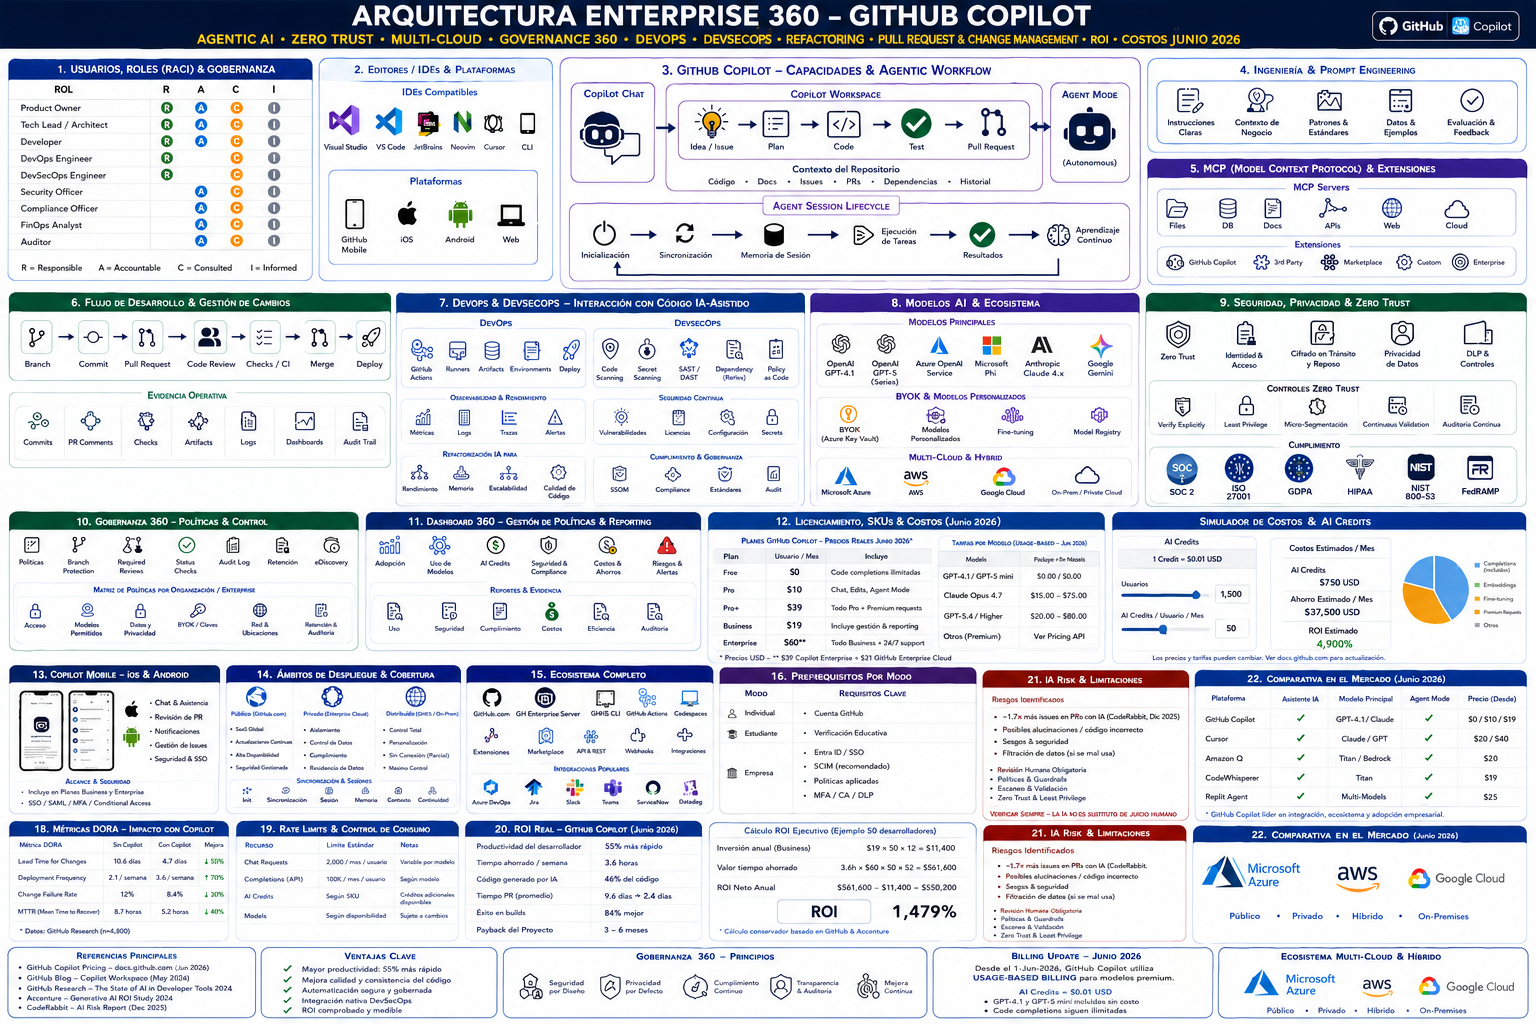
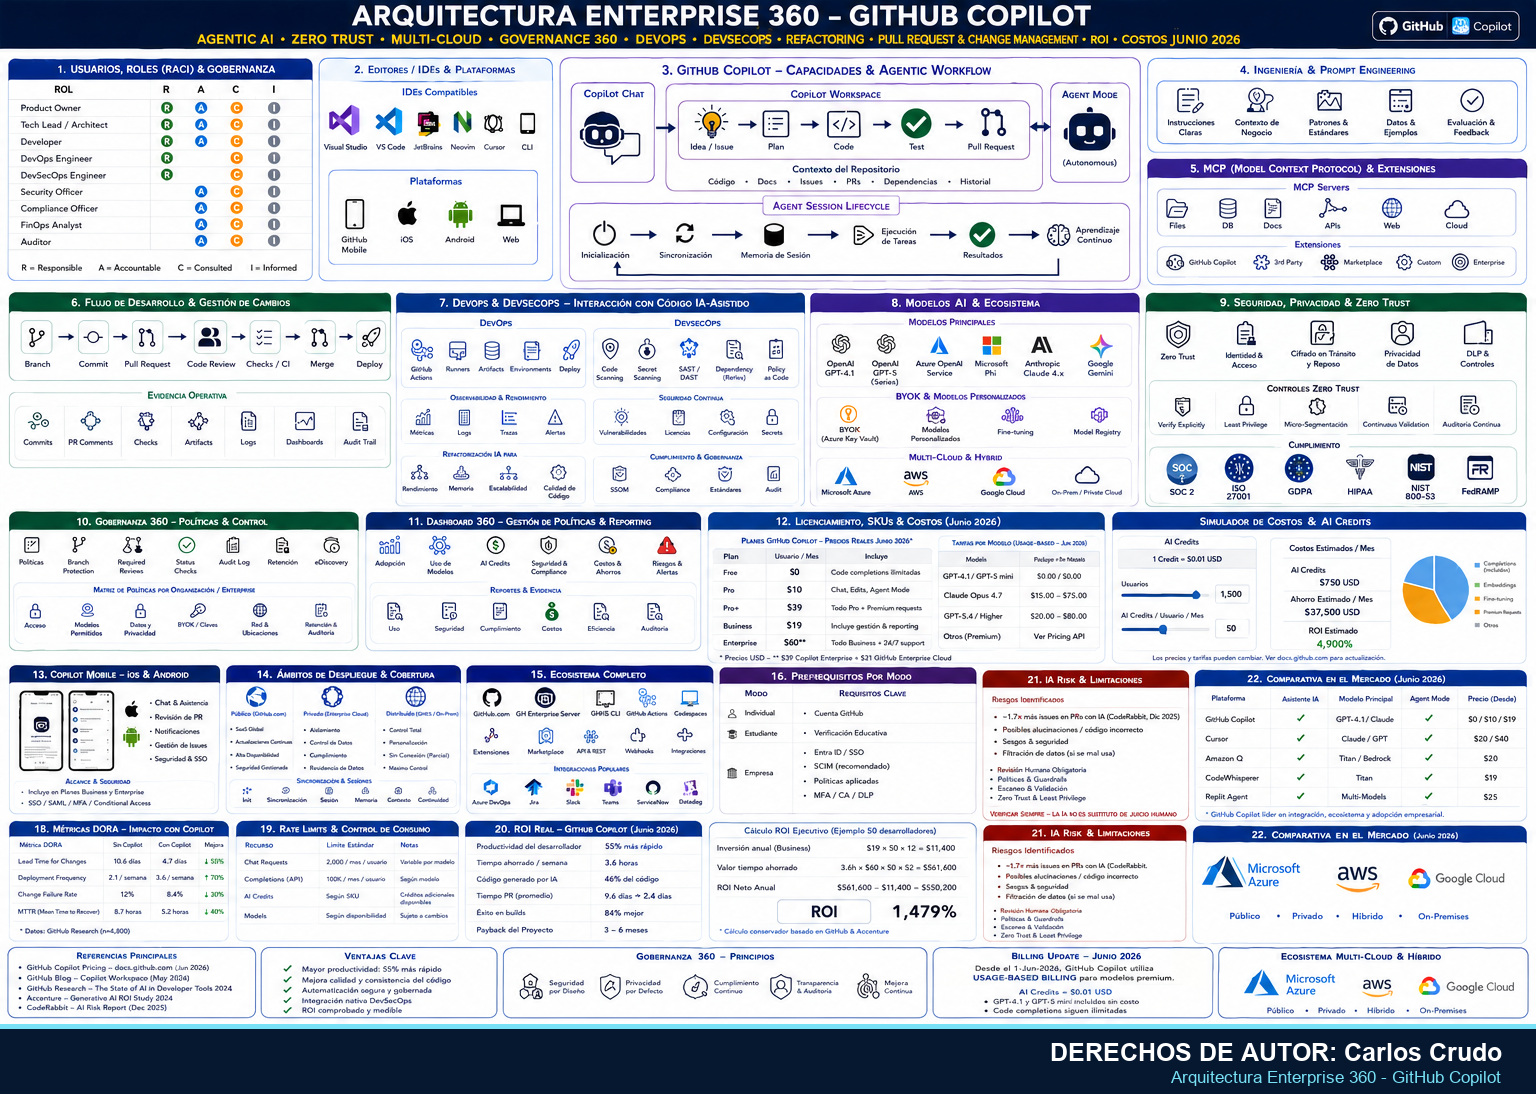
Add author credit to architecture diagram
Add visible Carlos Crudo author credit to the Enterprise 360 GitHub Copilot architecture image and page caption.

diff --git a/site/index.html b/site/index.html
@@ -743,6 +743,7 @@
               <figcaption class="figure-caption">
                 Arquitectura Enterprise 360: Agentic AI, Zero Trust, multi-cloud, governance,
                 DevOps, DevSecOps, refactoring, change management, ROI y costos a junio de 2026.
+                Derechos de autor: Carlos Crudo.
               </figcaption>
             </figure>
             <article class="card span-7 resource-card">
@@ -762,7 +763,7 @@
                 </li>
                 <li>
                   <a href="assets/arquitectura-enterprise-360-github-copilot-roi-carlos-crudo.png">
-                    Descargar arquitectura 360
+                    Descargar arquitectura 360 - Autor Carlos Crudo
                     <span>.png</span>
                   </a>
                 </li>
